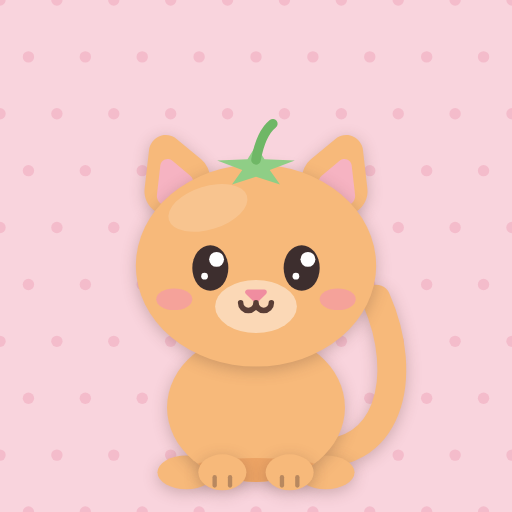
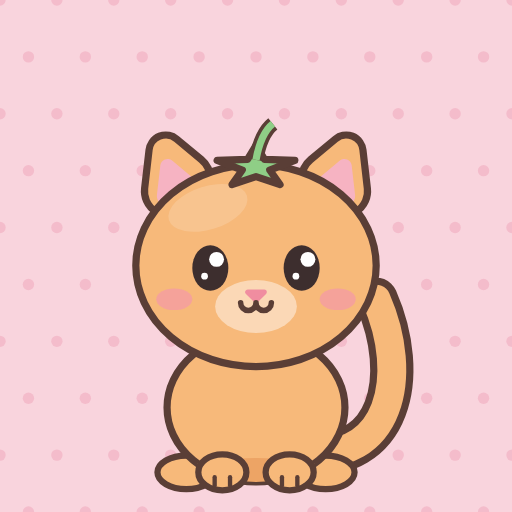
Study Cat 0.3.3: quarto e o fundo da tela, contorno do gato de volta
Pedido da Bianca: a casa do gato e o fundo e tudo do layout fica na frente; o chao
continua por tras do cartao e dos botoes. O canvas cobre a tela inteira; o desenho
do quarto ocupa do topo ate o cartao e dali para baixo e so chao. Reencaixa quando
o cartao cresce com o alerta.

Contorno do gato de volta (e no icone): tirar as bordas era do quarto, nao do gato.
O modo sem contorno fica no codigo, desligado.

Changed region(s): [[0.25, 0.2188, 0.8125, 0.9688]]

diff --git a/app.js b/app.js
@@ -9,7 +9,7 @@ import { miniatura } from './quarto.js';
 import * as Som from './som.js';
 import { t, IDIOMAS, definirIdioma, detectarIdioma, nomeItem, nomePelagem, traduzirPagina } from './i18n.js';
 
-const VERSAO = '0.3.2';
+const VERSAO = '0.3.3';
 const $ = sel => document.querySelector(sel);
 const esc = x => String(x).replace(/[&<>"']/g, c => ({ '&': '&amp;', '<': '&lt;', '>': '&gt;', '"': '&quot;', "'": '&#39;' }[c]));
 const moeda = n => `<span class="m"><svg class="ic"><use href="#i-moeda"/></svg>${n}</span>`;
@@ -199,14 +199,19 @@ function mostrarAdocao() {
 // ---------- jogo ----------
 // O quarto estica para ocupar o espaço todo (pedido da Bianca): no mínimo 400 × 460 lógicos,
 // mais largo se sobrar largura, mais alto se sobrar altura.
+// O quarto cobre a tela toda e é o fundo (pedido da Bianca). A parte com o gato e os móveis
+// (desenho 400 × 460) ocupa do topo até o cartão do timer; dali para baixo é só chão, por trás
+// do cartão e dos botões. Mais largo ou mais alto que o desenho: a parede estica.
 function encaixar() {
-  const r = $('#palco').getBoundingClientRect();
-  if (r.width < 10 || r.height < 10) return;
-  const a = r.width / r.height;
+  const app = $('#app').getBoundingClientRect();
+  if (app.width < 10 || app.height < 10) return;
+  const visivel = Math.max(160, $('#cartao').getBoundingClientRect().top - app.top - 4);
+  const a = app.width / visivel;
   let wl = 400, hl = 460;
-  if (a >= 400 / 460) wl = Math.min(620, 460 * a); else hl = Math.min(680, 400 / a);
-  const e = Math.min(r.width / wl, r.height / hl);
-  cena.redimensionar(Math.floor(wl * e), Math.floor(hl * e), wl, hl);
+  if (a >= 400 / 460) wl = 460 * a; else hl = 400 / a;
+  const e = app.width / wl;                                   // hl * e = altura visível
+  const baixo = Math.max(0, (app.height - hl * e) / e);       // chão por trás dos botões
+  cena.redimensionar(Math.ceil(app.width), Math.ceil(app.height), wl, hl, baixo);
 }
 
 function iniciarJogo() {
@@ -214,7 +219,8 @@ function iniciarJogo() {
   $('#adocao').hidden = true; $('#app').hidden = false;
   cena = criarCena($('#tela'));
   encaixar();
-  new ResizeObserver(encaixar).observe($('#palco'));
+  const ro = new ResizeObserver(encaixar);                     // o cartão cresce com o alerta: reencaixa
+  ro.observe($('#app')); ro.observe($('#cartao'));
   E.atualizarSaude(s);
   render();
   requestAnimationFrame(quadro);

diff --git a/quarto.js b/quarto.js
@@ -39,13 +39,18 @@ export function desenharParede(ctx, p, x, y, w, h, esc = 1) {
 }
 
 function chao(ctx, ext) {
-  const x0 = -ext.dx, x1 = W + ext.dx;
-  ctx.fillStyle = '#f1d9b5'; ctx.fillRect(x0, CHAO, x1 - x0, H - CHAO);
+  const x0 = -ext.dx, x1 = W + ext.dx, fim = H + (ext.baixo || 0);
+  ctx.fillStyle = '#f1d9b5'; ctx.fillRect(x0, CHAO, x1 - x0, fim - CHAO);
   ctx.strokeStyle = 'rgba(90,62,54,.15)'; ctx.lineWidth = 2;
-  const faixas = [CHAO, CHAO + 30, CHAO + 66, CHAO + 106, H];
+  // tábuas cada vez mais largas para a frente (perspectiva); continuam por trás dos botões
+  const faixas = [CHAO, CHAO + 30, CHAO + 66, CHAO + 106];
+  for (let y = CHAO + 150, larg = 46; y < fim + larg; y += larg, larg += 4) faixas.push(y);
+  faixas.push(fim + 60);
   for (const y of faixas.slice(1, -1)) linha(ctx, x0, y, x1, y);
-  [70, 150, 44, 118].forEach((ini, k) => {                        // emendas das tábuas, desencontradas
-    for (let x = ini - 170 * Math.ceil((ini - x0) / 170); x < x1; x += 170) linha(ctx, x, faixas[k], x, faixas[k + 1]);
+  const inicios = [70, 150, 44, 118];
+  faixas.slice(0, -1).forEach((y0, k) => {                        // emendas das tábuas, desencontradas
+    const ini = inicios[k % 4];
+    for (let x = ini - 170 * Math.ceil((ini - x0) / 170); x < x1; x += 170) linha(ctx, x, y0, x, faixas[k + 1]);
   });
   ctx.fillStyle = '#fff6ea'; ctx.fillRect(x0, CHAO - 12, x1 - x0, 12);                 // rodapé
   ctx.strokeStyle = LINHA; ctx.lineWidth = 2.5;
@@ -291,7 +296,7 @@ const MOLDURA = false;
 const RAIO = MOLDURA ? 26 : 0;
 const contornoQuarto = ext => MOLDURA
   ? [8 - ext.dx, 8 - ext.dy, W + 2 * ext.dx - 16, H + ext.dy - 16]
-  : [-ext.dx, -ext.dy, W + 2 * ext.dx, H + ext.dy];
+  : [-ext.dx, -ext.dy, W + 2 * ext.dx, H + ext.dy + (ext.baixo || 0)];
 
 // ordem de trás para a frente
 const ORDEM = ['janela', 'quadro', 'prateleira', 'lustre', 'estante', 'planta', 'abajur', 'cama', 'tapete', 'areia'];

diff --git a/index.html b/index.html
@@ -27,12 +27,11 @@
   button { font: inherit; color: inherit; cursor: pointer; }
   .ic { width: 20px; height: 20px; flex: none; }
 
-  #app { height: 100dvh; max-width: 480px; margin: 0 auto; display: flex; flex-direction: column; gap: 8px;
+  #app { position: relative; height: 100dvh; max-width: 480px; margin: 0 auto; display: flex; flex-direction: column; gap: 8px;
     padding: calc(env(safe-area-inset-top) + 6px) 14px calc(env(safe-area-inset-bottom) + 8px); }
   #app[hidden] { display: none; }
 
   /* Barra de cima pequena e POR CIMA do quarto, no alto da parede (pedido da Bianca: o quarto é o foco). */
-  #cenaBox { position: relative; }
   #topo { position: absolute; top: 10px; left: 10px; right: 10px; z-index: 2; display: flex; align-items: center; gap: 6px; pointer-events: none; }
   #topo > * { pointer-events: auto; }
   .pilula { display: flex; align-items: center; gap: 5px; height: 30px; padding: 0 11px 0 5px; background: rgba(255,250,243,.9);
@@ -48,8 +47,12 @@
   .redondo .ic { width: 21px; height: 21px; }
   .redondo:active, .pilula:active { transform: translateY(2px); box-shadow: 0 1px 0 var(--linha); }
 
-  /* quarto de ponta a ponta e colado no topo, sem borda (pedido da Bianca) */
-  #palco { flex: 1; min-height: 0; margin: -6px -14px 0; display: flex; align-items: center; justify-content: center; }
+  /* O quarto é o FUNDO da tela inteira (pedido da Bianca): o chão continua por trás do cartão e dos
+     botões, que ficam na frente. O app.js encaixa o desenho para o gato ficar acima do cartão. */
+  #palco { position: absolute; inset: 0; z-index: 0; overflow: hidden; }
+  #cenaBox { position: absolute; inset: 0; }
+  #cartao, #nav { position: relative; z-index: 1; }
+  #cartao { margin-top: auto; }
   #tela { display: block; touch-action: manipulation; }
 
   #cartao { background: var(--cartao); border: 2.5px solid var(--linha); border-radius: 22px; box-shadow: 0 4px 0 var(--linha);

diff --git a/gato.js b/gato.js
@@ -1,6 +1,6 @@
 // O gatinho, desenhado em Canvas 2D. Não usa imagem nenhuma: cor, pelagem, tamanho do pelo
 // e roupinha mudam trocando um parâmetro, sem precisar de um desenho para cada combinação.
-// Estilo: cor chapada, formas redondas, cabeção de chibi, SEM contorno no gato (sombrinha macia no lugar).
+// Estilo Usagi Shima: contorno marrom grosso, cor chapada, formas redondas, cabeção de chibi.
 //
 // Coordenadas locais: origem no chão entre as patas, para cima é y negativo.
 // Cabeça com ~100 de largura; gato inteiro com ~150 de altura (sem chapéu).
@@ -27,11 +27,10 @@ const CAB = { y: -90, rx: 50, ry: 42 };
 const CORPO = { y: -31, rx: 37, ry: 31 };
 const PESCOCO_Y = -50;
 
-// (Bianca, 2026-10-27) O gatinho NÃO tem contorno marrom. Sem a linha, cabeça, corpo e patas da mesma
-// cor virariam uma massa só e o gato branco sumiria na parede creme; por isso cada parte do corpo
-// faz uma sombrinha macia (a cabeça no corpo, a pata no peito, o gato todo na parede).
-// Rosto, roupinhas, livro e objetos continuam com traço. CONTORNO = true volta ao desenho antigo.
-const CONTORNO = false;
+// O gato TEM contorno marrom. Em 2026-10-27 ele foi tirado por engano ("tirar as bordas" era do
+// quarto, não do gato) e voltou no mesmo dia. O modo sem contorno ficou pronto e testado:
+// CONTORNO = false troca a linha por uma sombrinha macia em cada parte do corpo.
+const CONTORNO = true;
 function silhueta(ctx, desenhar) {
   ctx.save();
   const m = ctx.getTransform(), k = Math.hypot(m.a, m.b);   // a sombra é em pixel de tela: acompanha a escala

diff --git a/cena.js b/cena.js
@@ -22,13 +22,14 @@ export function criarCena(canvas) {
   let proxCoracao = 5, proxFedor = 0;
 
   // larg × alt em pixels de CSS; wl × hl = tamanho lógico (no mínimo 400 × 460, o desenho original).
-  function redimensionar(larg, alt, wl = W, hl = H) {
+  // baixo = chão a mais embaixo do desenho, por trás do cartão e dos botões.
+  function redimensionar(larg, alt, wl = W, hl = H, baixo = 0) {
     dpr = Math.min(window.devicePixelRatio || 1, 2.5);
     canvas.style.width = larg + 'px'; canvas.style.height = alt + 'px';
     canvas.width = fora.width = Math.round(larg * dpr);
     canvas.height = fora.height = Math.round(alt * dpr);
-    WL = wl; HL = hl; escala = larg / WL;
-    ext = { dx: (WL - W) / 2, dy: HL - H };
+    WL = wl; HL = hl + baixo; escala = larg / WL;
+    ext = { dx: (WL - W) / 2, dy: hl - H, baixo };
   }
 
   // ---------- partículas ----------

diff --git a/icone.html b/icone.html
@@ -21,8 +21,8 @@
     const a = -Math.PI / 2 + k * Math.PI * 2 / 5, b = a + Math.PI / 5;
     x.lineTo(Math.cos(a) * 17, Math.sin(a) * 9); x.lineTo(Math.cos(b) * 6, Math.sin(b) * 4);
   }
-  x.closePath(); x.fill();                          // sem contorno, como o gato (Bianca, 2026-10-27)
-  x.beginPath(); x.moveTo(0, -3); x.quadraticCurveTo(2, -14, 7, -18); x.lineCap = 'round'; x.lineWidth = 4; x.strokeStyle = '#6fb766'; x.stroke();
+  x.closePath(); x.fill(); x.stroke();
+  x.beginPath(); x.moveTo(0, -3); x.quadraticCurveTo(2, -14, 7, -18); x.lineWidth = 6; x.stroke(); x.lineWidth = 3; x.strokeStyle = '#8fce86'; x.stroke();
   x.restore();
   document.title = 'pronto';
 </script></body></html>

diff --git a/sw.js b/sw.js
@@ -1,6 +1,6 @@
 // Service worker: o app funciona offline. Rede primeiro (pega atualização), cache se estiver sem internet.
 // MEXEU EM QUALQUER ARQUIVO DA LISTA? Suba o CACHE, senão o app instalado continua servindo a versão velha.
-const CACHE = 'pomodorocat-v0.3.2';
+const CACHE = 'pomodorocat-v0.3.3';
 const APP = ['./', './index.html', './app.js', './estado.js', './regras.js', './catalogo.js', './gato.js', './quarto.js', './cena.js', './som.js', './i18n.js', './nuvem.js',
   './manifest.json', './icon-180.png', './icon-192.png', './icon-512.png'];
 

diff --git a/CLAUDE.md b/CLAUDE.md
@@ -19,9 +19,10 @@ Publicado em https://kevindustries-tech.github.io/pomodorocat/ — a Bianca usa 
 O nome que aparece é **Study Cat** (desde 2026-10-27). Repositório, endereço e chaves do
 `localStorage` continuam `pomodorocat`: trocar o endereço quebraria o app instalado no celular dela.
 
-O gato **não tem contorno** (pedido da Bianca, 2026-10-27): cada parte faz uma sombrinha macia
-(`CONTORNO` e `silhueta()` em `gato.js`). O quarto, os objetos e as roupinhas continuam com traço.
-O quarto **não tem moldura**: vai de ponta a ponta e colado no topo (`MOLDURA` em `quarto.js`).
+O gato **tem contorno** marrom — foi tirado por engano em 2026-10-27 e voltou no mesmo dia
+(`CONTORNO` em `gato.js`; o modo sem contorno ficou pronto, mas ela não quer).
+O quarto **não tem moldura** e é o **fundo da tela inteira**: o chão continua por trás do cartão do
+timer e dos botões, que ficam na frente (`MOLDURA` em `quarto.js`, `encaixar()` no `app.js`).
 
 **Sem build e sem bundler**: HTML + ES modules + Canvas 2D. Nenhuma imagem: o gato, o quarto e
 os móveis são desenhados em código, então cor, pelagem, pelo e roupinha são só parâmetros.
